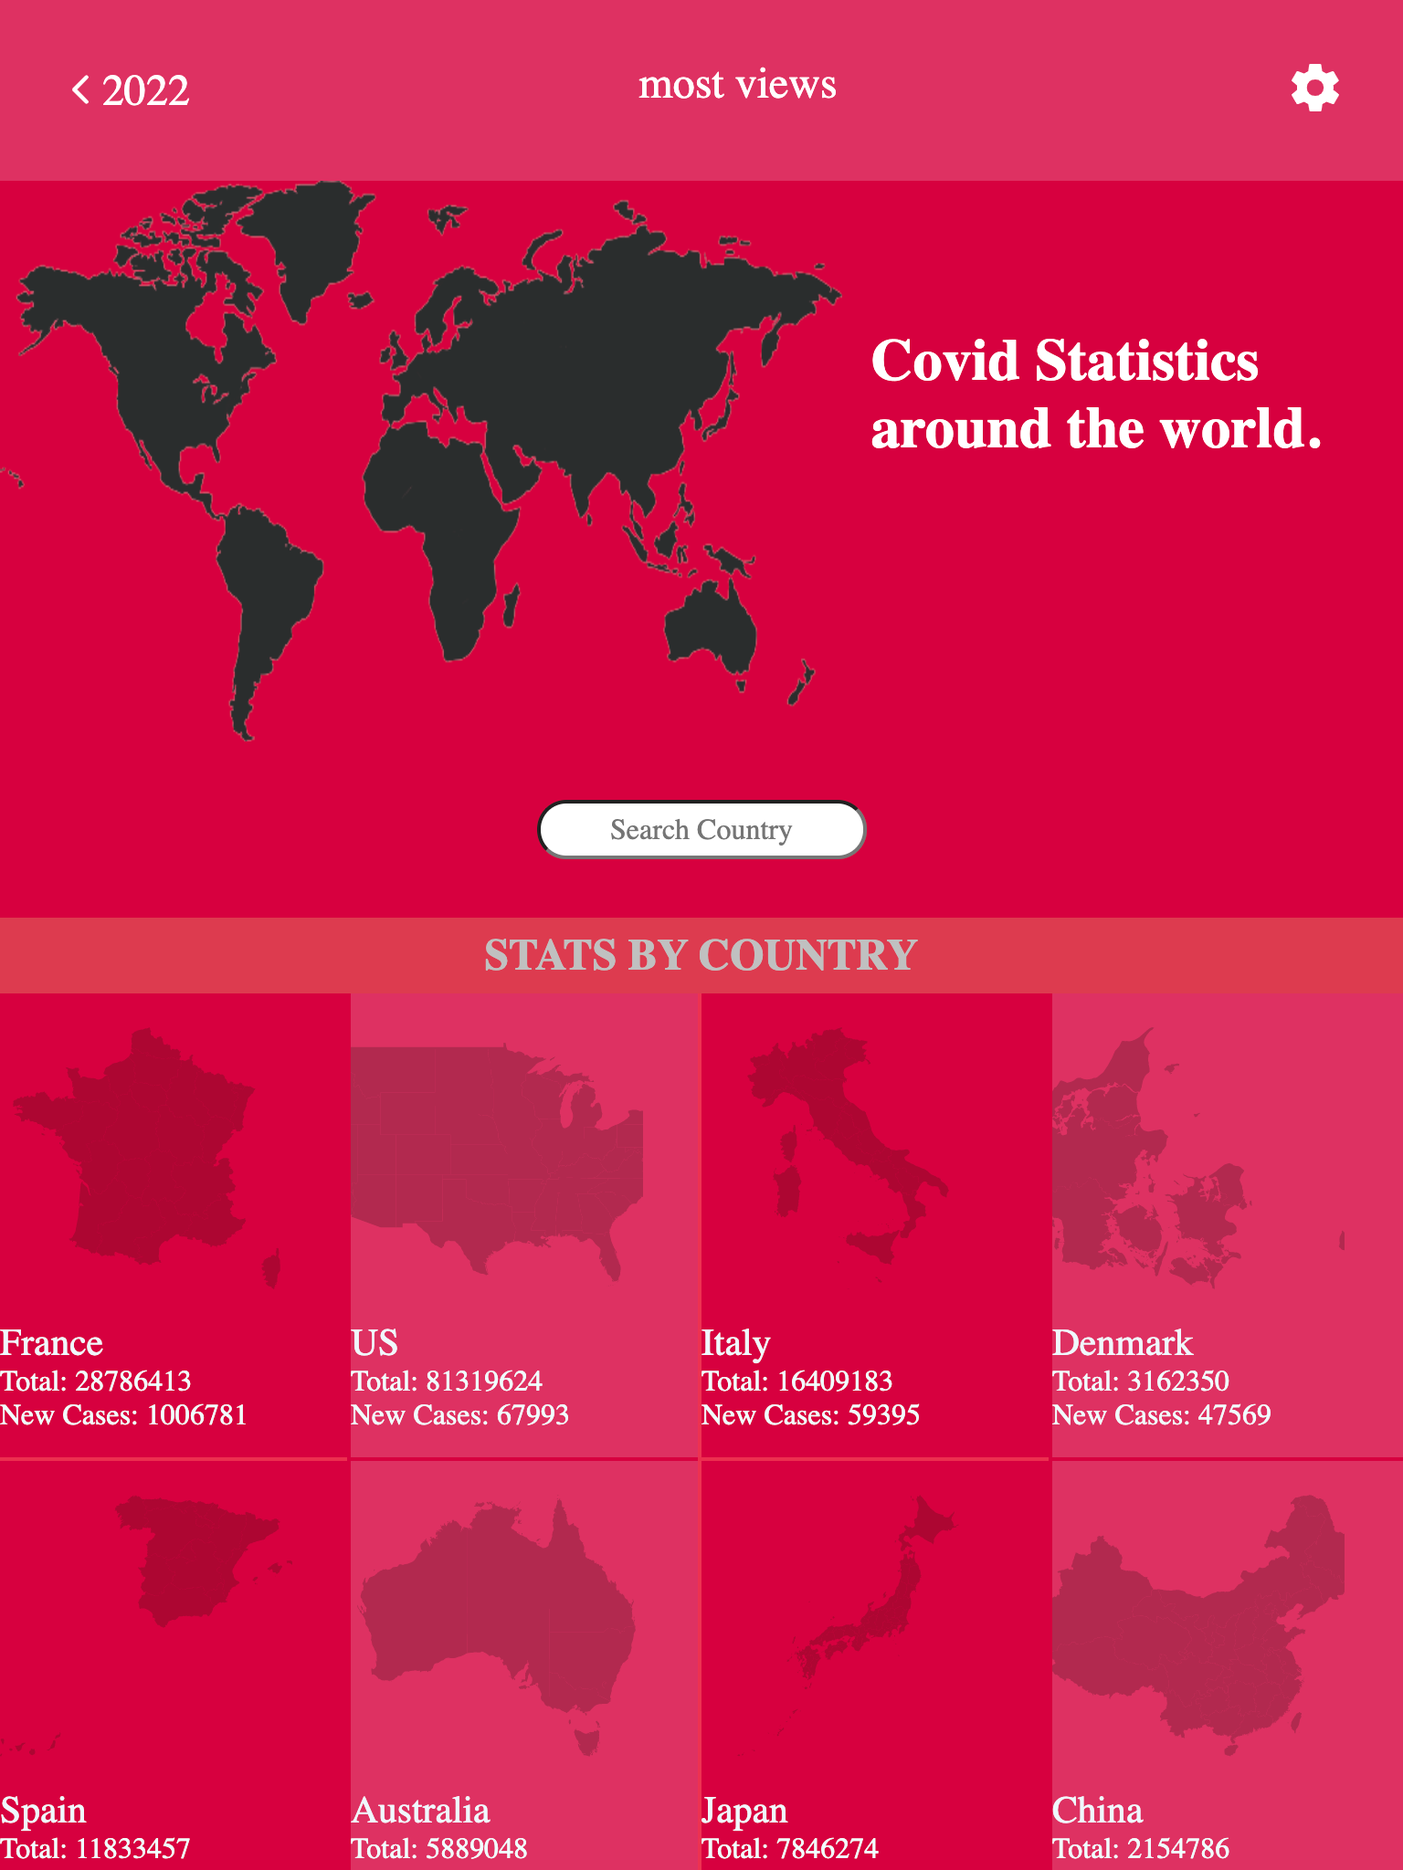
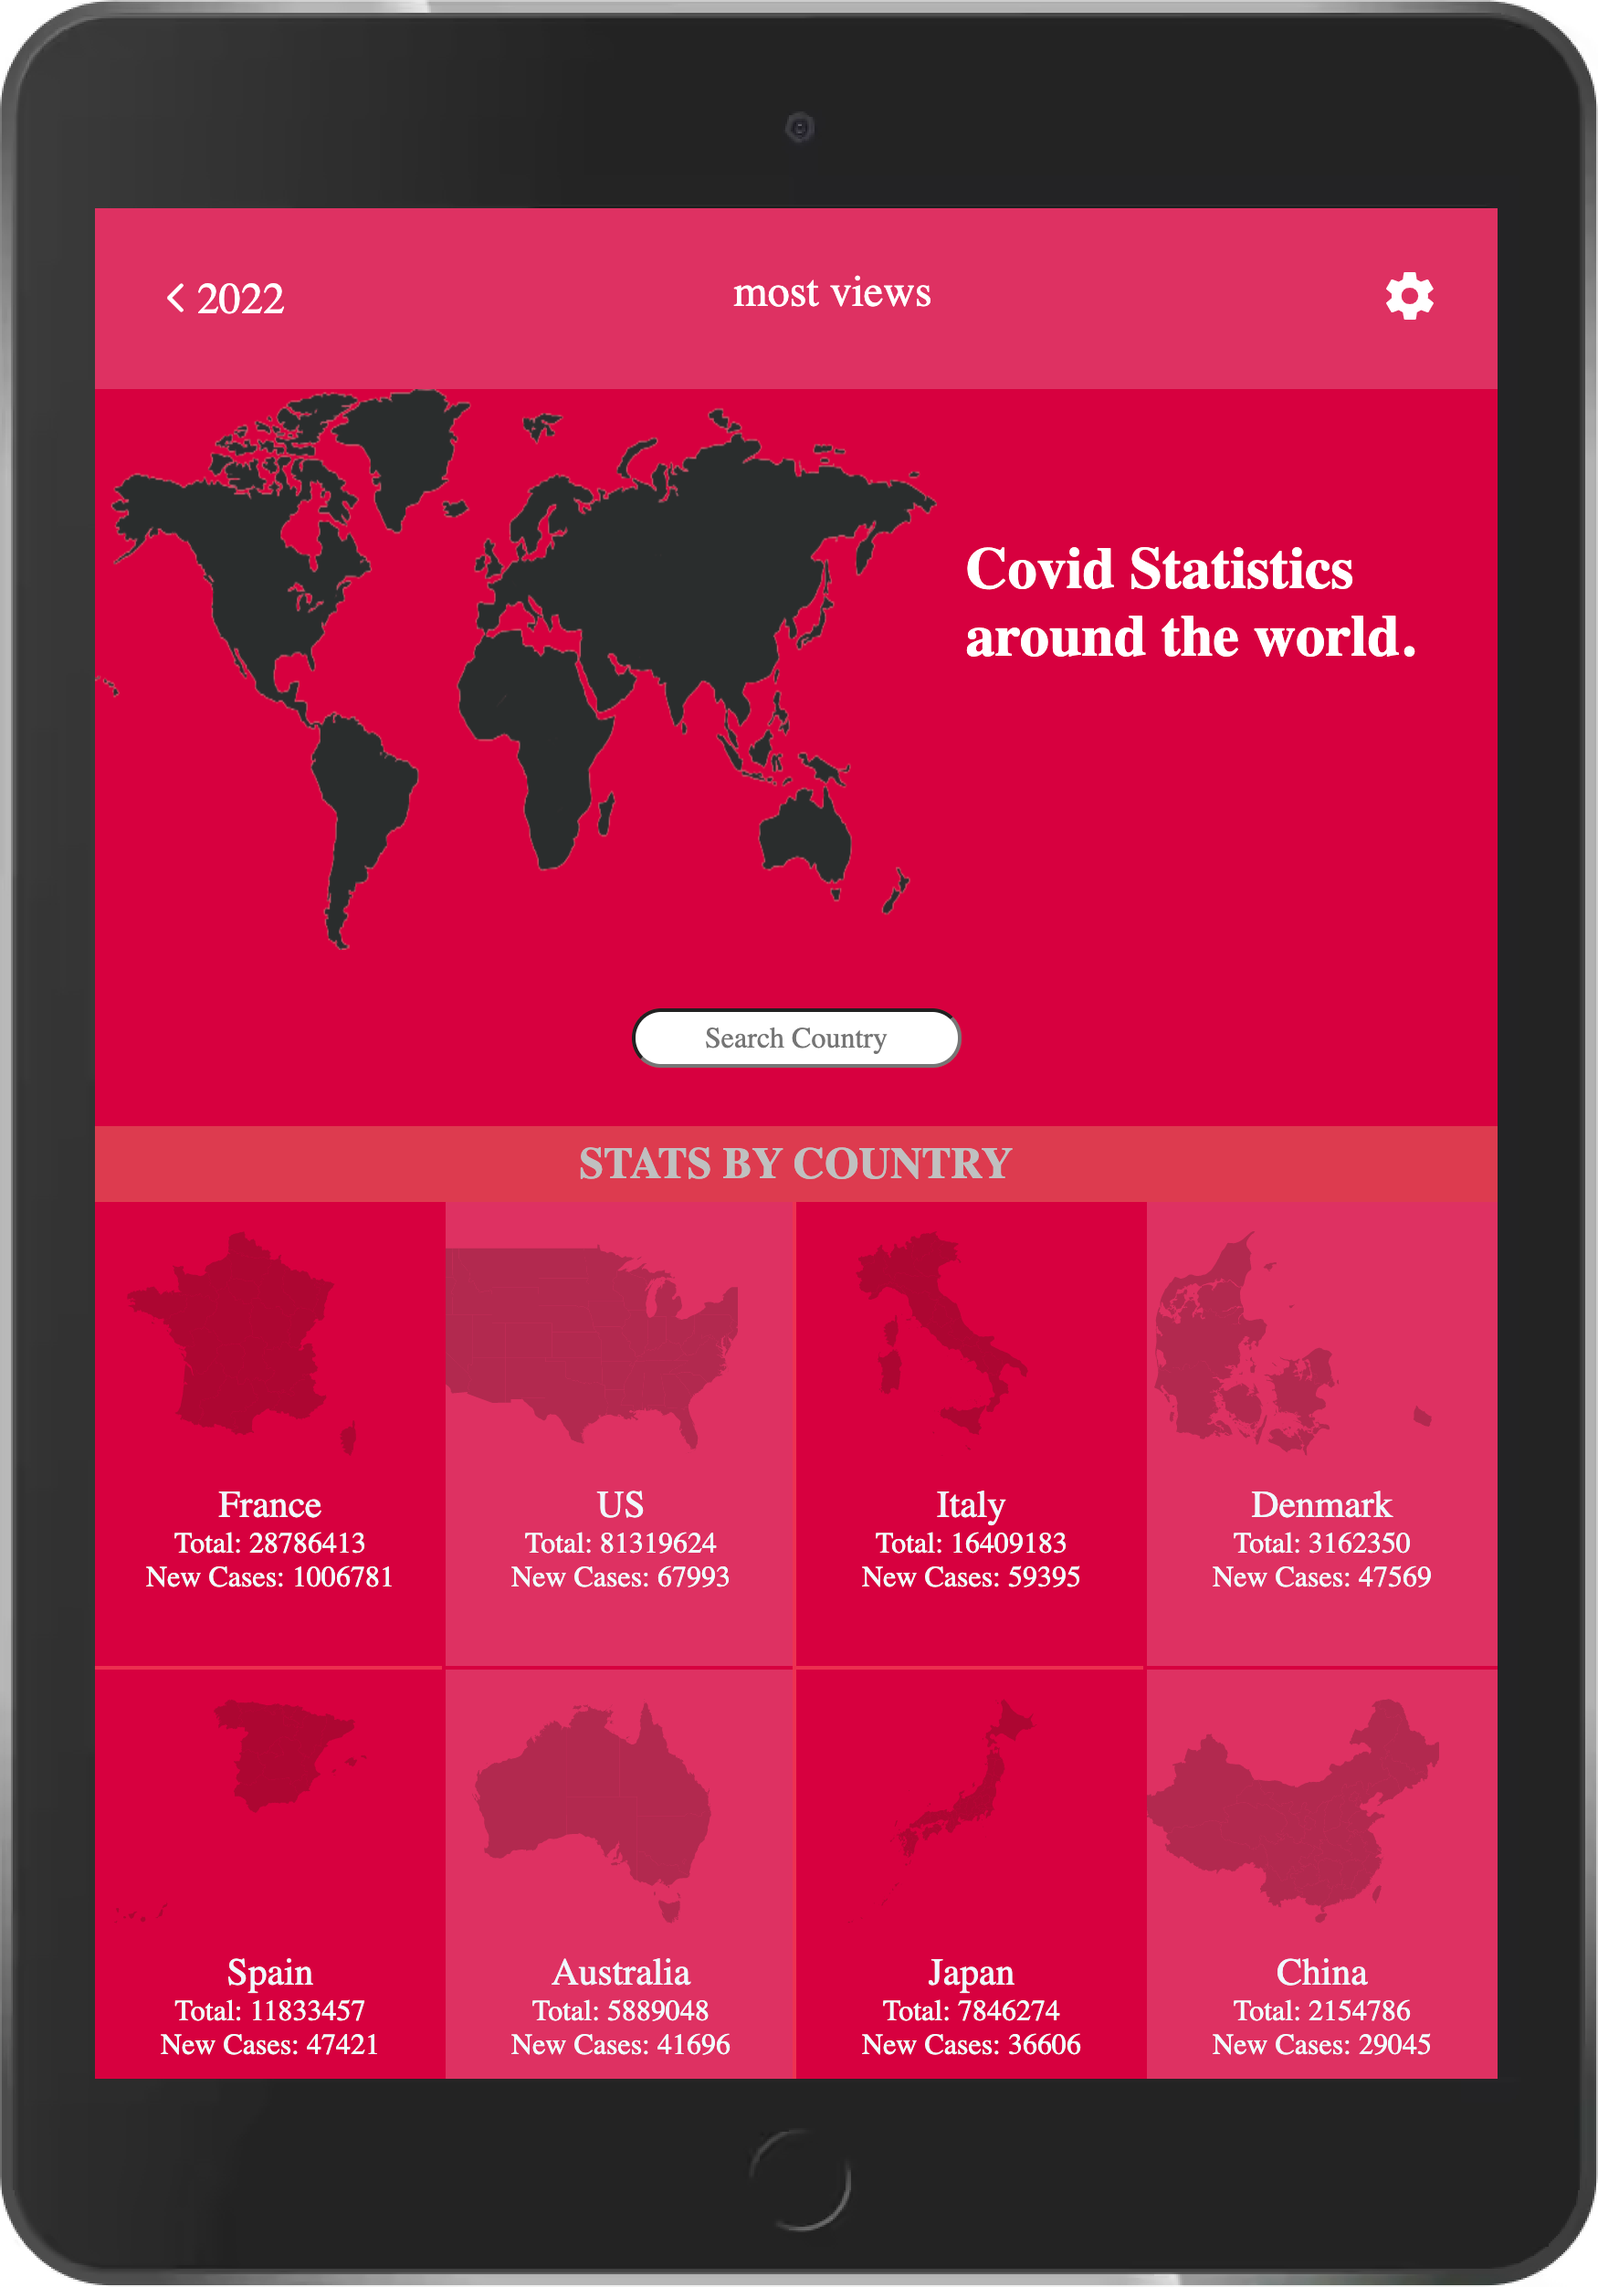
Touch up styling again

diff --git a/src/components/Countries/Country/Country.js b/src/components/Countries/Country/Country.js
@@ -12,19 +12,19 @@ const Country = ({
     <div
       style={{
         width: '10rem',
-        height: '70%',
+        height: '60%',
         background: ` url(${image}) no-repeat 50% 50%`,
         backgroundSize: 'auto 80%',
         opacity: '0.2',
       }}
       loading="lazy"
     />
-    <p className="pr3 white f4 b" style={{ fontSize: '1.3rem', color: 'aliceblue' }}>{name}</p>
-    <span className="db pr3 white f5 b" style={{ fontSize: '1rem', color: 'azure' }}>
+    <p className="pr3 white f4 b" style={{ fontSize: '1.3rem', color: 'aliceblue', textAlign: 'center' }}>{name}</p>
+    <p className="db pr3 white f5 b" style={{ fontSize: '1rem', color: 'azure', textAlign: 'center' }}>
       Total:
       {` ${total}`}
-    </span>
-    <p className="db pr3 white f5 b" style={{ fontSize: '1rem', color: 'azure' }}>
+    </p>
+    <p className="db pr3 white f5 b" style={{ fontSize: '1rem', color: 'azure', textAlign: 'center' }}>
       New Cases:
       {` ${newCases}`}
     </p>

diff --git a/src/components/Countries/Countries.js b/src/components/Countries/Countries.js
@@ -34,7 +34,14 @@ const Countries = () => {
               />
             ))}
             {!wait && !countryList.length
-              && <p className="">No Matching Results</p>}
+              && (
+              <p style={{
+                fontSize: '1.5rem', color: 'silver', margin: '2rem auto', textAlign: 'center',
+              }}
+              >
+                No Matching Results
+              </p>
+              )}
           </main>
         </>
       )

diff --git a/src/components/Countries/Countries.css b/src/components/Countries/Countries.css
@@ -1,6 +1,6 @@
 #countries-container {
   display: grid;
-  grid-template-columns: repeat(auto-fit, minmax(10rem, 1fr));
+  grid-template-columns: repeat(auto-fit, minmax(12rem, 1.5fr));
 }
 
 .country-card {

diff --git a/README.md b/README.md
@@ -8,7 +8,7 @@
 ![gif](src/covid911_AdobeCreativeCloudExpress.gif)
 ![laptop](src/laptop.png)
 ![tablet](src/ipad.png)
-![mobile](src/localhost_3000_.png)
+![mobile](src/phone.png)
 
 ## Built With
 
